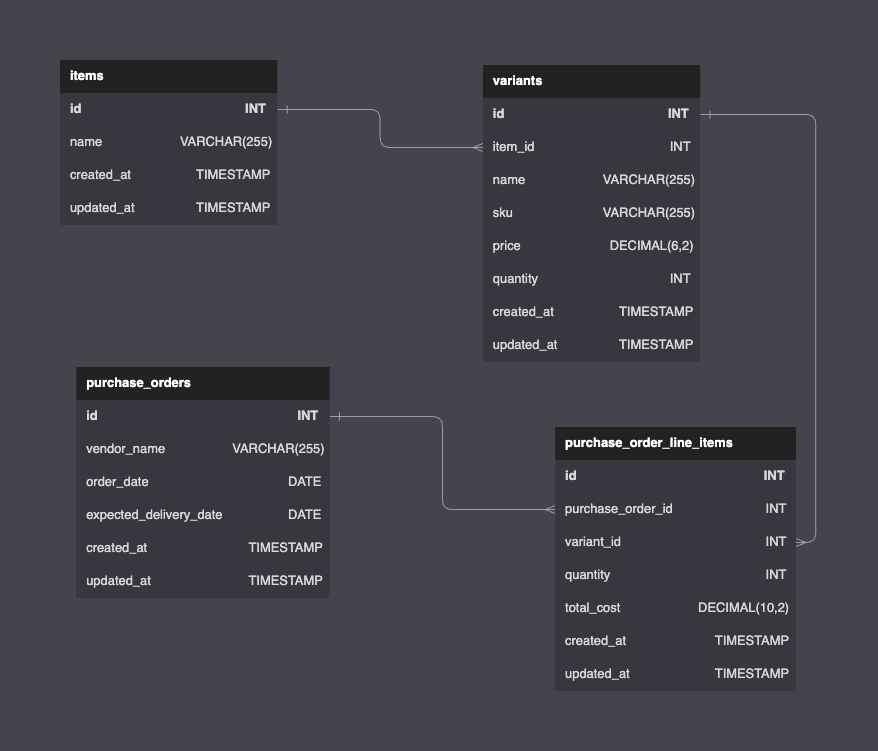
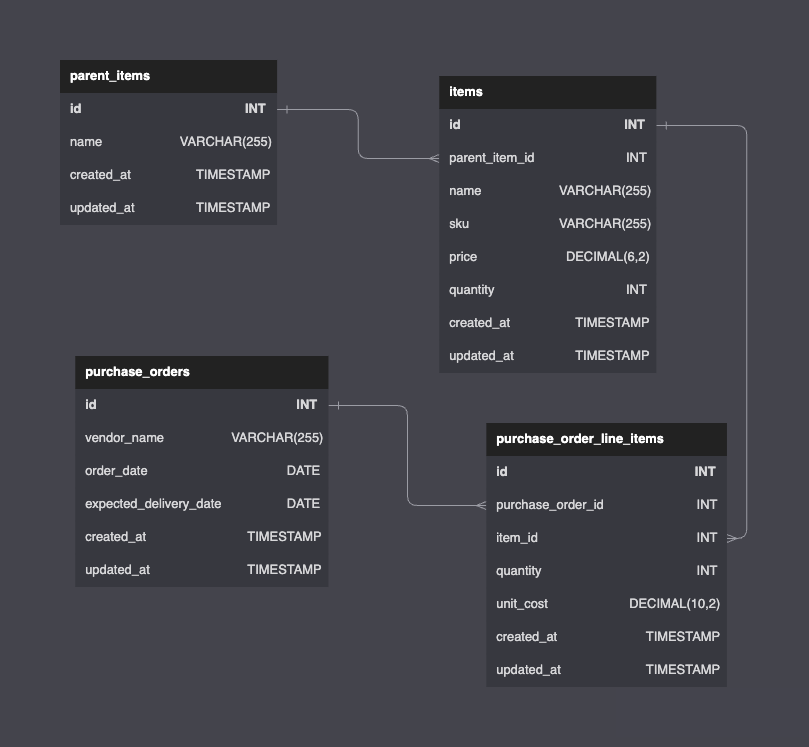
Aligning terms used to describe products / variants
Based on feecback from John

diff --git a/migrate_and_seed_database.js b/migrate_and_seed_database.js
@@ -1,0 +1,25 @@
+#!/usr/bin/env node
+
+const sqlite3 = require('sqlite3').verbose();
+const db = new sqlite3.Database('./db/gddy.sqlite');
+const fs = require('fs');
+const sql = fs.readFileSync('./db/seed_database.sql', 'utf8');
+
+async function migrate() {
+  await db.exec(sql, (err) => {
+    if (err) {
+      console.log(err.message);
+      process.exit(1);
+    }
+  });
+  console.log('Database seeded');
+}
+
+migrate()
+  .catch((err) => {
+    console.log(err.message);
+  })
+  .finally(() => {
+    db.close();
+  });
+

diff --git a/README.md b/README.md
@@ -59,14 +59,13 @@ It's likely we won't complete every requirement, but let's get as far as we can 
 ### Schema
 Here is the schema we will use for this exercise.
 ![er-diagram.png](docs/er-diagram.png)
- - `items` are the parent of `variants`. Example: t-shirt or pants
- - `variants` represent variations of items that we can sell. Example: t-shirt in red or blue
+ - `parent_items` are the parent of `items`. Example: t-shirt or pants
+ - `items` represent variations of items that we can sell. Example: t-shirt in red or blue
  - `purchase_orders` represent the document we use to track variants we are ordering from vendors.
  - `purchase_order_line_items` represent the line items on a purchase order, and are linked to variants.
 
 ### Explorations
-Now that the requirements above have been completed, let's explore the following concepts and questions:
+Once the requirements above have been completed, let's spend some time exploring the following:
 
-- What sort of changes would we need to make to variants and purchase orders to support multiple locations?
-- It's important to understand the cost of goods sold in order to understand our profit margin. What if the cost changes per purchase order?
-- A merchant wants to maximize the sales they have. We want to make sure they are able to sell stock they have on order. Presently Shopify only has the ability to sell stock that is on hand. Let’s talk through how we would implement presale and backorder on this sales channel.
+- It's important to understand the cost of goods sold in order to understand our profit margin. Costs for each item can vary per purchase order. Let's talk through how we would implement this.
+- Let's say a merchant's online store is able to only sell inventory that is on hand. In other words, inventory that the merchant has at their fulfillment center. Let’s talk through how we would implement presale / backorder to sell goods that they have on order from a vendor.
